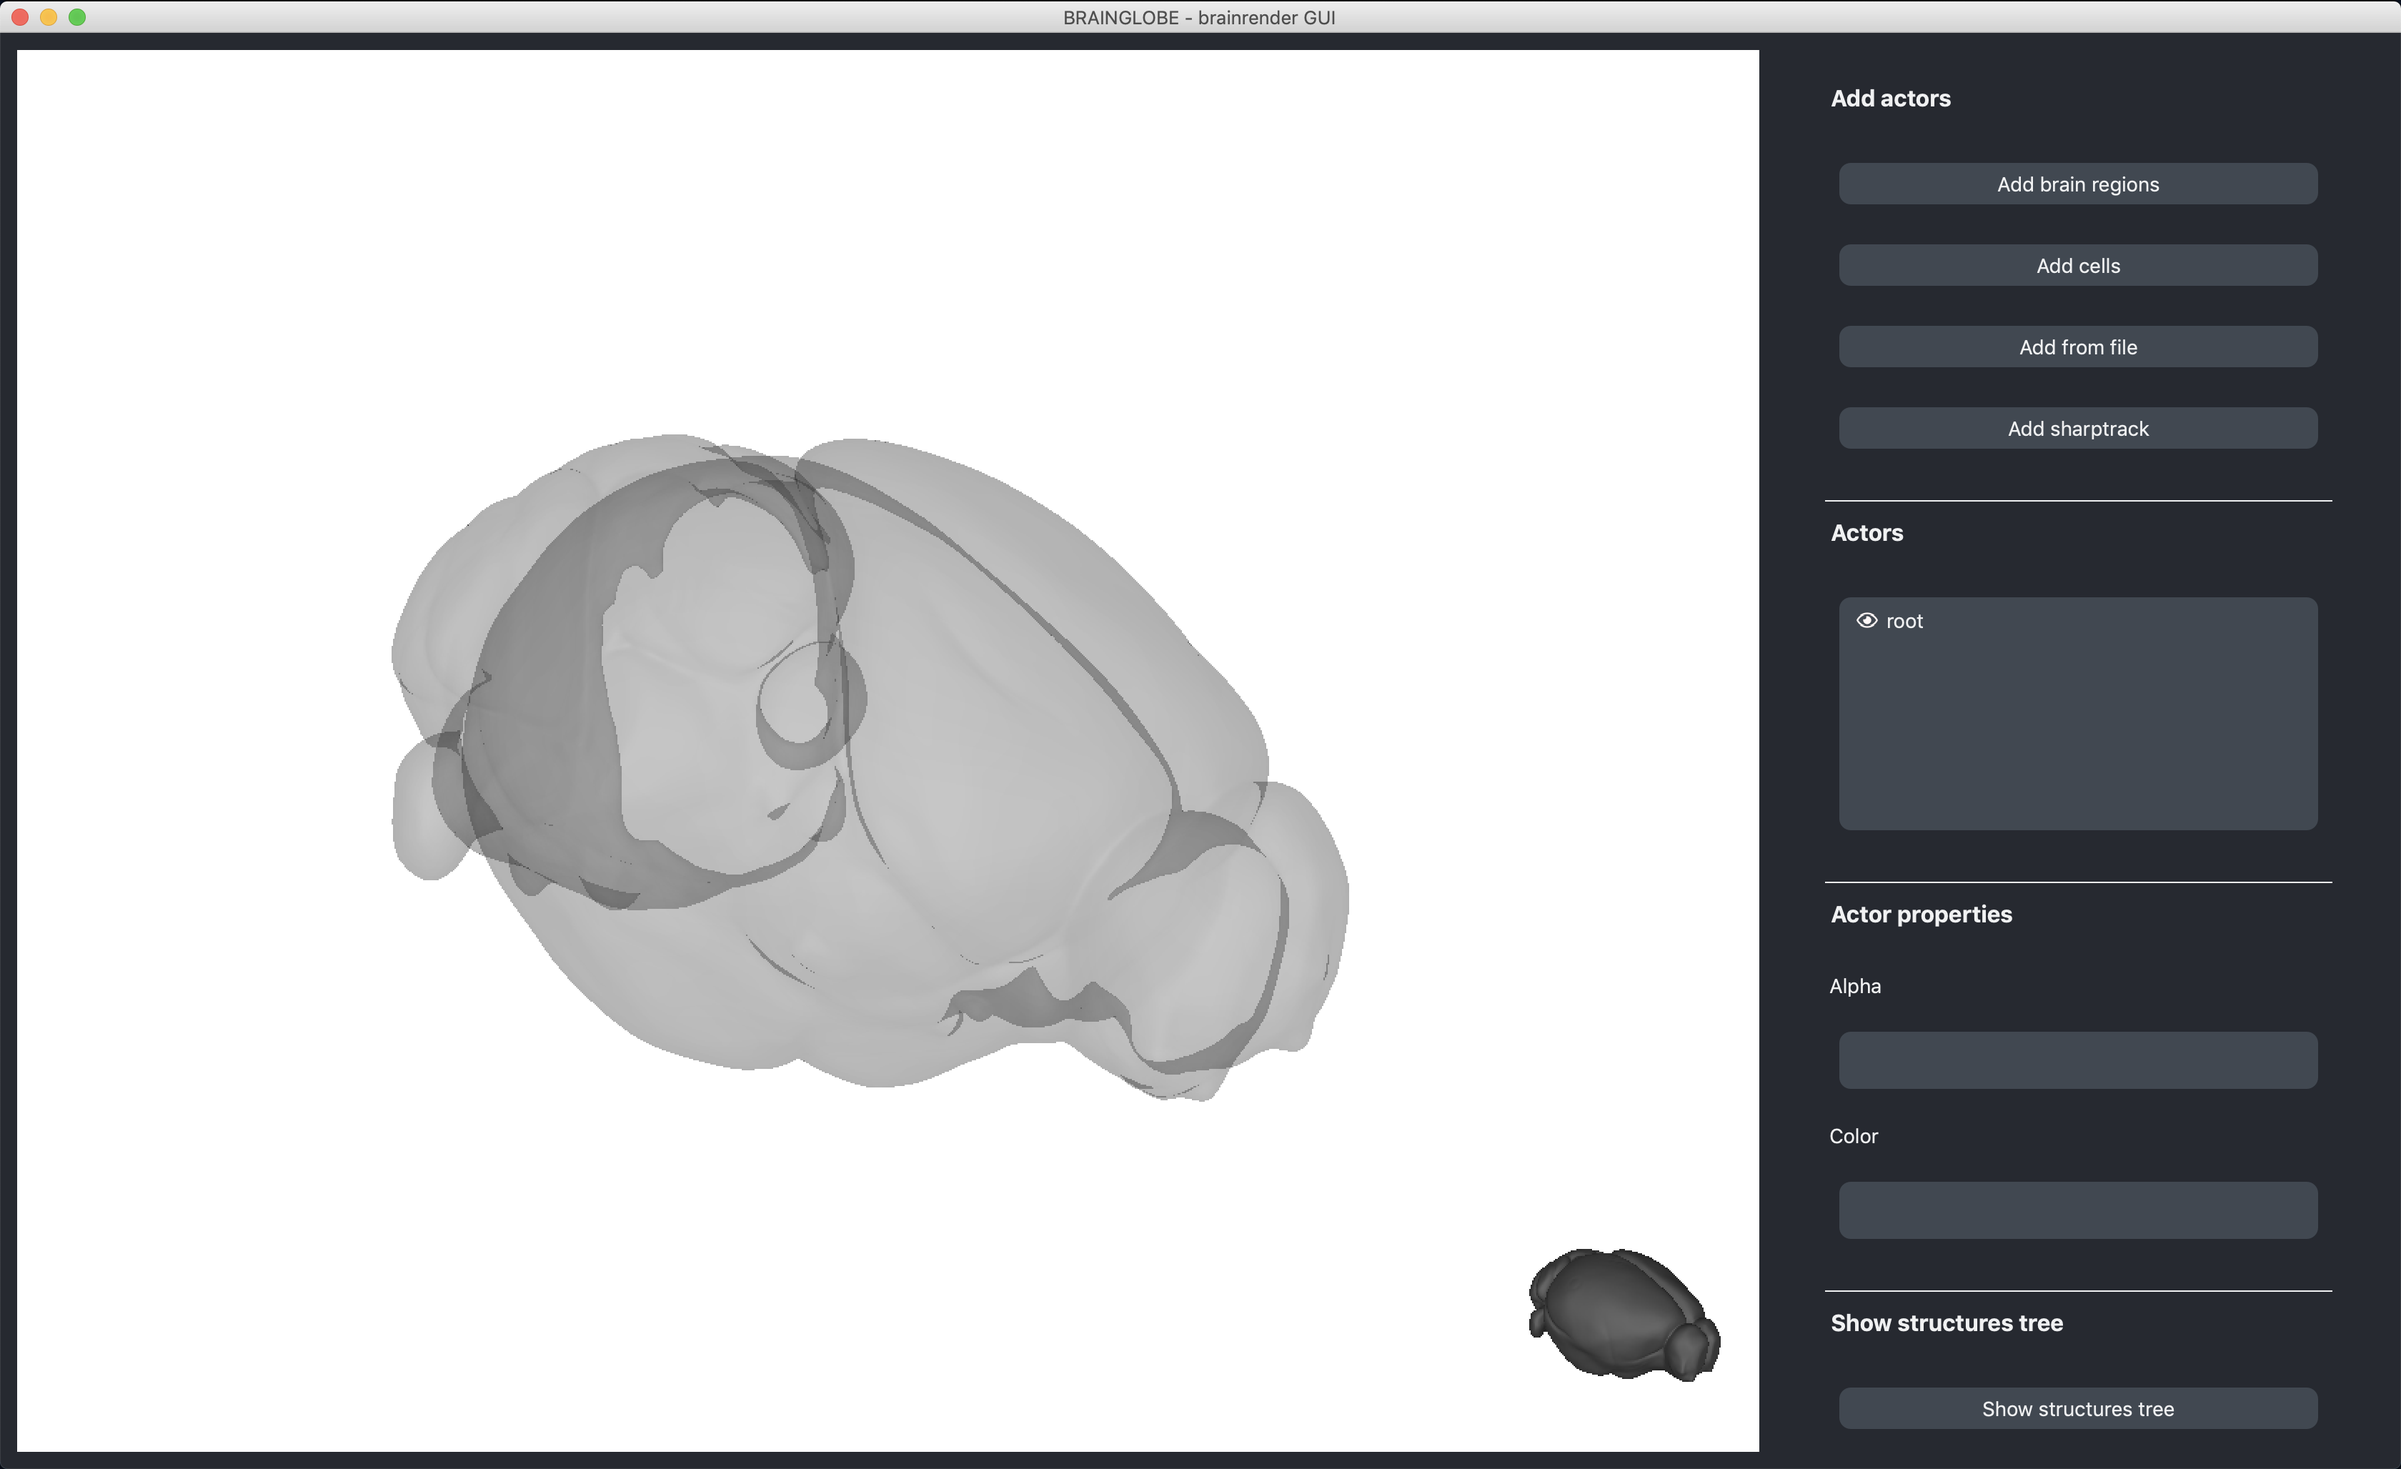
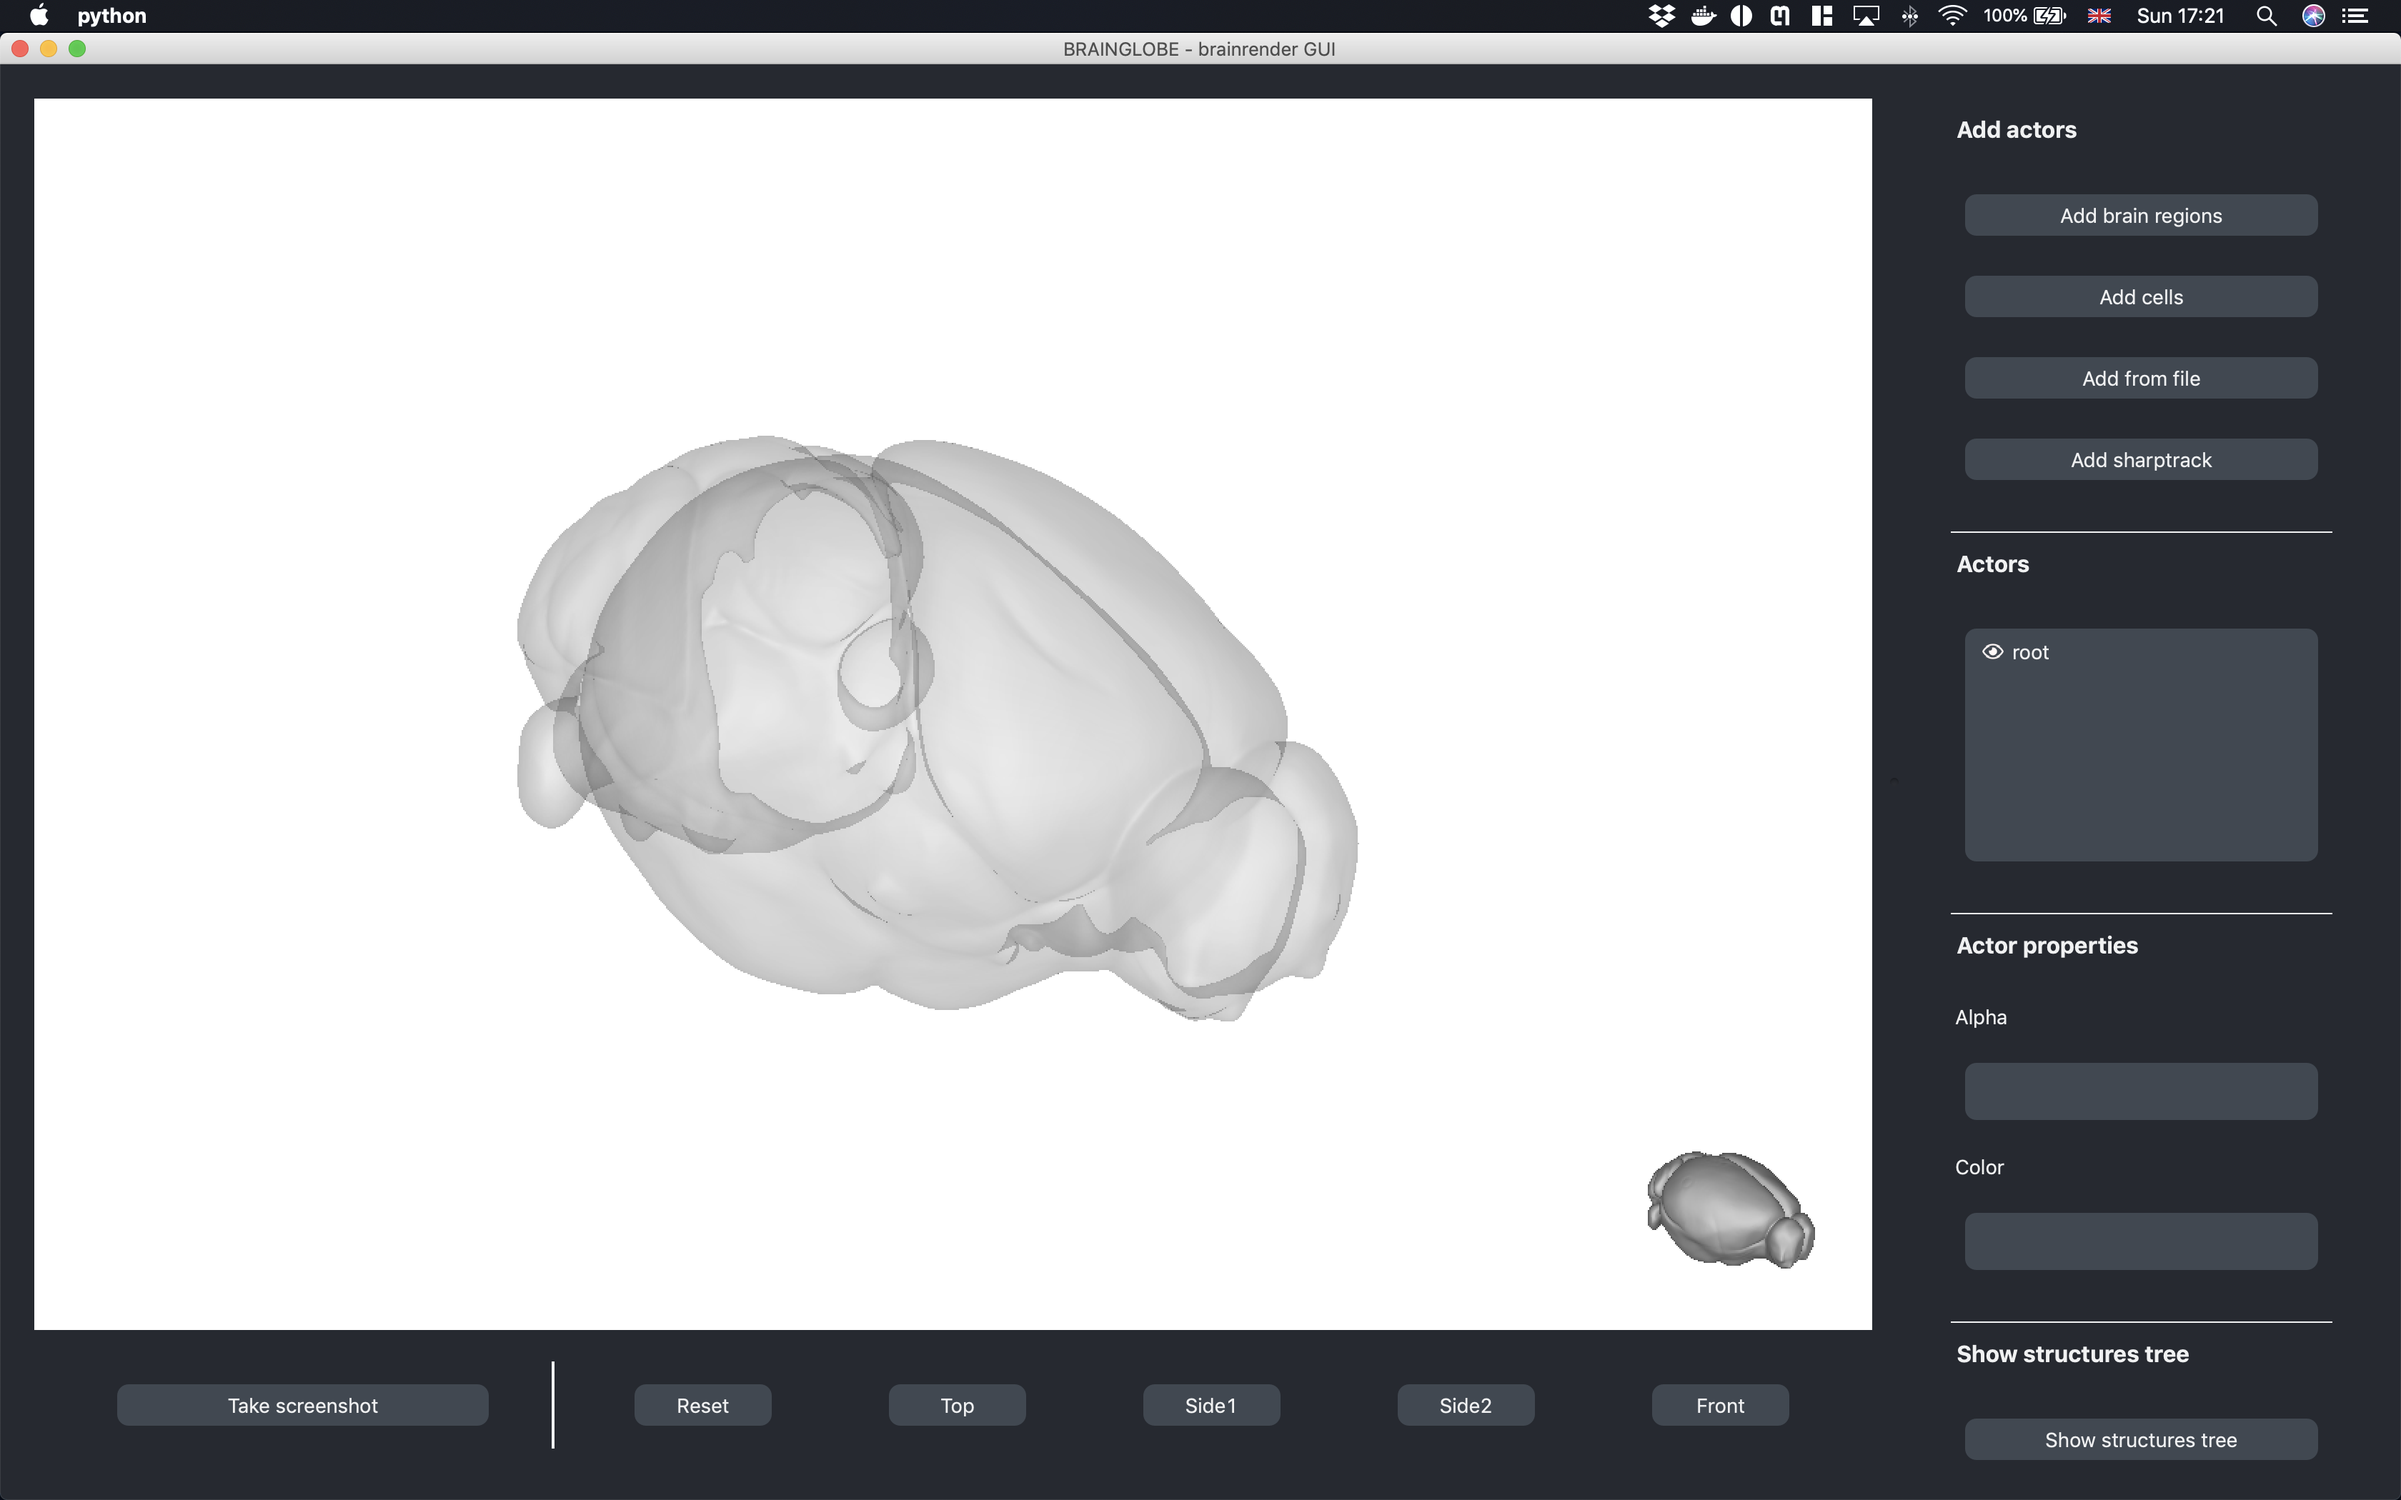
GitBook: [master] 9 pages and 2 assets modified

diff --git a/bg-brainrender-gui/usage.md b/bg-brainrender-gui/usage.md
@@ -14,7 +14,7 @@ brainrender-gui
 
 Once the GUI is started it will open a window visualizing the `root` mesh of the atlas selected and several buttons to add and remove elements to the `brainrender` scene.
 
-![bg-brainrender-GUI](../.gitbook/assets/app.png)
+![](../.gitbook/assets/app.png)
 
 {% hint style="success" %}
 To s**pecify which atlas to use:** use the **`-a`** argument when calling `brainrender-gui`:
@@ -51,4 +51,25 @@ Pressing the `Show structures tree` button at the bottom right of the window sho
 ![](../.gitbook/assets/app2.png)
 
 The hierarchy view can be used to explore the structures hierarchy as well as to add brain regions to the scene: clicking on a region's tick box will add it to the list of actors in the scene. Press the same button again to hide the hierarchy view.
+
+
+
+### Taking screenshots
+
+Under the main canvas there is a button that can be used to save a screenshot with the current view of the `brainrender` scene. 
+
+To specify where to save the screenshot, use the `-o` argument when calling `brainrender-gui`:
+
+```text
+brainrender-gui -o path/to/screenshots/folder
+```
+
+### Camera control
+
+To the right of the screenshots button is a panel of buttons used to set the camera position in the `brainrender Scene:`
+
+* `Reset` resets the camera to what is defined as default in `brainrender` \(i.e. `brainrender.CAMERA`\).
+* `Top` moves the camera so that the brain is viewed from the top
+* `Side1` and `Side2` move the camera to view the brain from the side \(left and right sides\).
+* `Front` moves the camera to view the brain from the fron.
 
